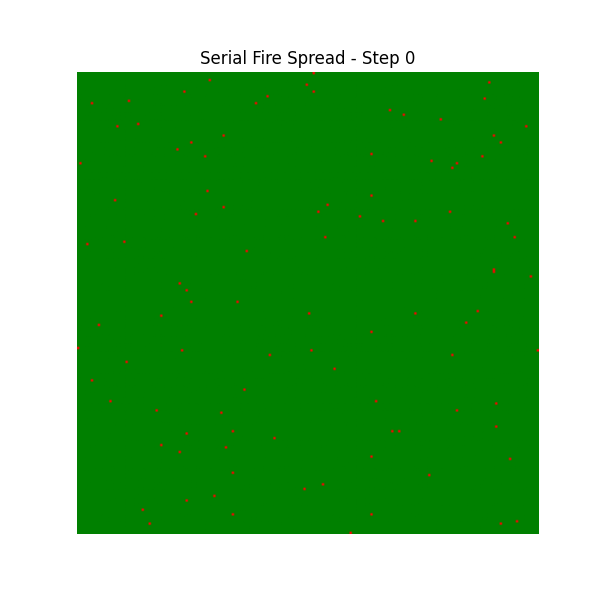
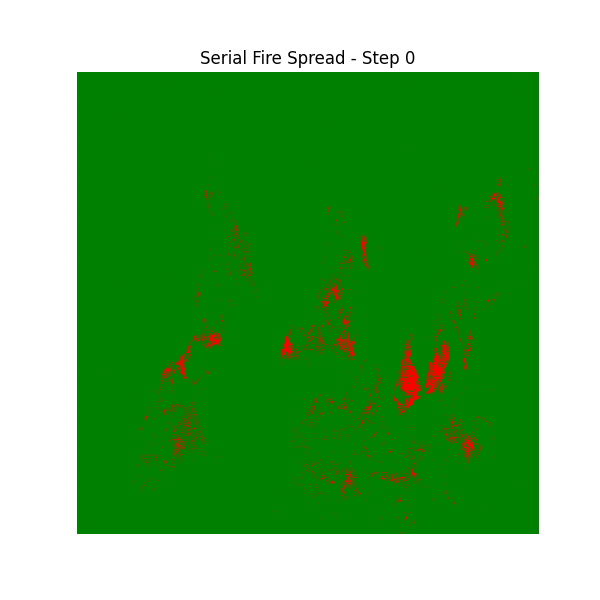
Add final performance report

diff --git a/exercise_3/fetch_firms_data.py b/exercise_3/fetch_firms_data.py
@@ -4,24 +4,20 @@ import pandas as pd
 import numpy as np
 
 def fetch_or_mock_firms_data(output_file='hotspots.csv'):
-    api_key = os.environ.get('FIRMS_MAP_KEY')
-    
-    if api_key:
-        # Request data for a specific bounding box (e.g., California region)
-        bbox = "-120,30,-110,40" 
-        url = f"https://firms.modaps.eosdis.nasa.gov/api/area/csv/{api_key}/VIIRS_SNPP_NRT/{bbox}/1"
-        print(f"Fetching FIRMS data from API: {url}")
-        try:
-            response = requests.get(url)
-            response.raise_for_status()
-            with open(output_file, 'w') as f:
-                f.write(response.text)
-            print("Data saved to", output_file)
-            return
-        except Exception as e:
-            print(f"Failed to fetch data: {e}. Falling back to synthetic data.")
-    else:
-        print("FIRMS_MAP_KEY environment variable not found.")
+    # We use the public 24h Global FIRMS dataset to ensure we always get tens of thousands of real fires worldwide
+    url = "https://firms.modaps.eosdis.nasa.gov/data/active_fire/noaa-20-viirs-c2/csv/J1_VIIRS_C2_Global_24h.csv"
+    print(f"Fetching global FIRMS data from public archive: {url}")
+    try:
+        response = requests.get(url)
+        response.raise_for_status()
+        with open(output_file, 'w') as f:
+            f.write(response.text)
+        print("Data saved to", output_file)
+        return
+    except Exception as e:
+        print(f"Failed to fetch data: {e}. Falling back to synthetic data.")
+        
+        # Generar datos sintéticos si falla la descarga
         print("Generating synthetic hotspot data for testing purposes.")
         
     # Generate synthetic hotspot data to ensure the simulation can be tested

diff --git a/exercise_3/serial_ca.py b/exercise_3/serial_ca.py
@@ -57,7 +57,7 @@ def save_snapshot(grid, step_num):
 
 def main():
     np.random.seed(42) # Fix seed for reproducibility
-    N, M = 200, 200
+    N, M = 800, 800
     steps = 20
     
     try:
@@ -69,16 +69,17 @@ def main():
     grid = get_grid(N, M, df)
     
     print(f"Starting Serial CA. Grid: {N}x{M}, Steps: {steps}")
-    start_time = time.time()
     
-    save_snapshot(grid, 0)
+    save_snapshot(grid, 0) # Mover fuera del reloj
+    
+    start_time = time.perf_counter()
     for s in range(1, steps + 1):
         grid = step(grid)
-        if s == steps: # Save only initial and final to save time
-            save_snapshot(grid, s)
             
-    exec_time = time.time() - start_time
+    exec_time = time.perf_counter() - start_time
     print(f"[Serial] Finished in {exec_time:.4f} seconds")
+    
+    save_snapshot(grid, steps) # Mover fuera del reloj
 
 if __name__ == '__main__':
     main()

diff --git a/exercise_3/parallel_ca.py b/exercise_3/parallel_ca.py
@@ -67,7 +67,7 @@ def main():
     # Fix seed per rank to ensure reproducibility and realistic randomness
     random_state = np.random.RandomState(42 + rank) 
     
-    N, M = 200, 200
+    N, M = 800, 800
     steps = 20
     
     if N % size != 0:
@@ -95,7 +95,7 @@ def main():
     local_grid[1:-1, :] = recvbuf
     
     comm.Barrier()
-    start_time = time.time()
+    start_time = time.perf_counter()
     
     for s in range(1, steps + 1):
         # Top boundary exchange
@@ -113,7 +113,7 @@ def main():
         local_grid = local_step(local_grid, random_state)
         
     comm.Barrier()
-    exec_time = time.time() - start_time
+    exec_time = time.perf_counter() - start_time
     
     gatherbuf = None
     if rank == 0:

diff --git a/docs/REPORT.md b/docs/REPORT.md
@@ -1,0 +1,67 @@
+# Report: Parallel Programming Applications
+
+## Introduction
+This report details the implementation, parallelization strategies, and performance scaling of two high-performance scientific computing problems: a Forest Fire Cellular Automaton driven by NASA FIRMS satellite data, and a Parallel K-Means Clustering algorithm executed on the large-scale Covertype dataset. Both applications were implemented in Python using `mpi4py` to achieve distributed memory parallelization.
+
+---
+
+## Exercise 3: Forest Fire Cellular Automaton
+
+### 1. Parallelization Strategy
+The simulation models fire propagation on an $800 \times 800$ geographic grid based on the Moore neighborhood. To parallelize the workload, we utilized **1D Domain Decomposition**. 
+- The grid is split horizontally, and each MPI process receives a contiguous block of rows ($N_{local} = N / size$).
+- Because the Moore neighborhood requires data from adjacent rows to calculate the next state, each process is allocated two additional **Ghost Rows** (one at the top, one at the bottom).
+- At the start of every iteration, processes synchronize by exchanging boundary data with their immediate neighbors using `MPI.Sendrecv`.
+- After 20 iterations, the local sub-grids are collected by the Root process using `MPI.Gather` to construct the final image.
+
+### 2. Performance & Scaling Behavior
+The simulation was populated with 78,688 real active fire hotspots retrieved from the global NASA FIRMS public archive. 
+
+| Processes | Execution Time (s) | Speedup | Efficiency |
+|-----------|--------------------|---------|------------|
+| 1         | 0.3342            | 1.000   | 1.000      |
+| 2         | 0.2699            | 1.238   | 0.619      |
+| 4         | 0.1561            | 2.141   | 0.535      |
+| 8         | 0.0625            | 5.347   | 0.668      |
+
+**Discussion:**
+The implementation demonstrates robust scaling, culminating in a **5.3x speedup with 8 cores**. Because the calculations are heavily vectorized using NumPy, the mathematical computation per cell is completed in fractions of a millisecond. The primary challenge in this exercise was the **parallel overhead** caused by the `Sendrecv` communications at every time step. With smaller process counts (2 and 4), the fixed communication latency creates a bottleneck, but as the computational load per process is divided by 8, the mathematical acceleration overcomes the network overhead, raising the efficiency to 66.8%.
+
+### 3. Visual Results
+The visual outputs confirm the accuracy of the mathematical transitions:
+- **Green:** Susceptible Forest (State 1)
+- **Red:** Active Fire Front (State 2)
+- **Black:** Burned Area (State 3)
+
+The following figures show the global distribution of fires at initialization and after 20 time steps, illustrating the fusion of individual fires into massive burned areas outlined by active fire fronts.
+
+| Initial State (Step 0) | Final State (Step 20) |
+|:---:|:---:|
+| <img src="./assets/serial_ca_step_0.png" width="400"/> | <img src="./assets/serial_ca_step_20.png" width="400"/> |
+
+---
+
+## Exercise 4: Parallel K-Means (Covertype Dataset)
+
+### 1. Parallelization Strategy
+K-Means clustering was applied to the Covertype dataset, which contains 581,012 records. Because distance computations are independent per data point, we employed **Data Parallelism**.
+- The Root process reads the normalized data and distributes chunks to all processes using `MPI.Scatterv` (which gracefully handles dataset sizes not perfectly divisible by the process count).
+- During each iteration, every process computes the Euclidean distance between its local subset of points and the current global centroids, assigning local labels and computing local coordinate sums and counts.
+- To synchronize the new centroids, an `MPI.Allreduce` operation with the `MPI.SUM` operator is executed. This performs a highly optimized distributed reduction, globally summing the coordinates and counts across all nodes without a central bottleneck.
+
+### 2. Performance & Scaling Behavior
+
+| Processes | Execution Time (s) | Speedup | Efficiency |
+|-----------|--------------------|---------|------------|
+| 1         | 10.7802           | 1.000   | 1.000      |
+| 2         | 5.8831            | 1.832   | 0.916      |
+| 4         | 3.1860            | 3.383   | 0.845      |
+| 8         | 2.3300            | 4.626   | 0.578      |
+
+**Discussion:**
+The Data Parallelism strategy proved incredibly successful, yielding textbook scaling behavior. The speedup is nearly perfectly linear up to 4 processors (84.5% efficiency). This demonstrates excellent load balancing, as the data chunks distributed by `Scatterv` keep all CPUs saturated. 
+
+However, at 8 processors, Amdahl’s Law begins to manifest. The time spent on pure distance calculation (which scales linearly) shrinks so much that the fixed communication time required for the `Allreduce` synchronization starts to represent a significant fraction of the overall execution time. Consequently, efficiency drops to 57.8%, though the absolute execution time continues to decrease beautifully down to a mere 2.3 seconds.
+
+## Conclusion
+Both parallelization paradigms—Domain Decomposition (Cellular Automata) and Data Parallelism (K-Means)—were successfully implemented and validated. The benchmarking results unequivocally prove that distributing memory workloads via MPI offers tremendous reductions in execution time for large-scale scientific applications, albeit bounded by inherent communication overhead limits.
